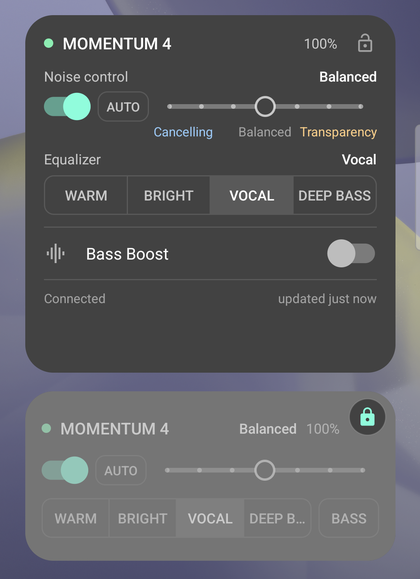
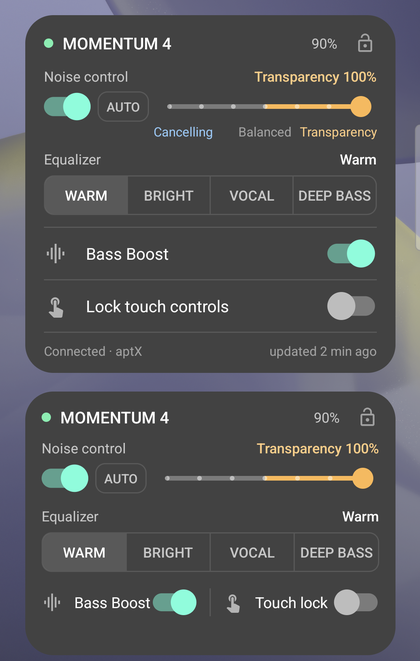
Widget: 3-row layout; README widget screenshots with and without lock
- New "tall" layout for 3-row cells (~205–295 dp): captions with the full
  readout, noise row, Equalizer caption, favorites, and Bass Boost / Touch
  lock side by side. Previously such widgets showed the 2-row layout with a
  third of the space empty. The 4-row layout now starts at 295 dp.
- README: widget screenshots of the 4-row and 3-row layouts, unlocked and
  locked; plan.md lists the four layouts and measured row heights.

diff --git a/app/src/main/java/cz/metlicka/m4control/widget/WidgetUpdater.kt b/app/src/main/java/cz/metlicka/m4control/widget/WidgetUpdater.kt
@@ -60,7 +60,8 @@ object WidgetUpdater {
 
     /** Debug builds: inflate every layout once so RemoteViews errors show up in the frame log. */
     fun selfTest(context: Context) {
-        for ((name, layout) in listOf("compact" to R.layout.widget_compact, "medium" to R.layout.widget_medium, "large" to R.layout.widget_large)) {
+        for ((name, layout) in listOf("compact" to R.layout.widget_compact, "medium" to R.layout.widget_medium,
+                "tall" to R.layout.widget_tall, "large" to R.layout.widget_large)) {
             try {
                 RemoteViews(context.packageName, layout).apply(context, android.widget.FrameLayout(context))
                 views(context, layout, Size.LARGE, AppWidgetManager.INVALID_APPWIDGET_ID).apply(context, android.widget.FrameLayout(context))
@@ -77,18 +78,23 @@ object WidgetUpdater {
             return RemoteViews(mapOf(
                 SizeF(250f, 40f) to views(context, R.layout.widget_compact, Size.COMPACT, id),
                 SizeF(250f, 120f) to views(context, R.layout.widget_medium, Size.MEDIUM, id),
-                SizeF(250f, 235f) to views(context, R.layout.widget_large, Size.LARGE, id),
+                SizeF(250f, 205f) to views(context, R.layout.widget_tall, Size.TALL, id),
+                SizeF(250f, 295f) to views(context, R.layout.widget_large, Size.LARGE, id),
             ))
         }
         val h = mgr.getAppWidgetOptions(id).getInt(AppWidgetManager.OPTION_APPWIDGET_MIN_HEIGHT, 120)
         return when {
             h < 120 -> views(context, R.layout.widget_compact, Size.COMPACT, id)
-            h < 235 -> views(context, R.layout.widget_medium, Size.MEDIUM, id)
+            h < 205 -> views(context, R.layout.widget_medium, Size.MEDIUM, id)
+            h < 295 -> views(context, R.layout.widget_tall, Size.TALL, id)
             else -> views(context, R.layout.widget_large, Size.LARGE, id)
         }
     }
 
-    private enum class Size { COMPACT, MEDIUM, LARGE }
+    /** Rows of a typical launcher: COMPACT 1, MEDIUM 2, TALL 3, LARGE 4+. */
+    private enum class Size { COMPACT, MEDIUM, TALL, LARGE;
+        val roomy get() = this == TALL || this == LARGE
+    }
 
     private fun views(ctx: Context, @LayoutRes layout: Int, size: Size, widgetId: Int): RemoteViews {
         DeviceController.init(ctx)
@@ -120,8 +126,8 @@ object WidgetUpdater {
         }
 
         val statusText = when (st.link) {
-            LinkState.DISCONNECTED -> if (size != Size.LARGE) "Not connected · last known" else "Not connected · last known settings"
-            LinkState.UNAVAILABLE -> if (size != Size.LARGE) "Control unavailable" else "Control connection unavailable"
+            LinkState.DISCONNECTED -> if (!size.roomy) "Not connected · last known" else "Not connected · last known settings"
+            LinkState.UNAVAILABLE -> if (!size.roomy) "Control unavailable" else "Control connection unavailable"
             else -> null
         }
         rv.setViewVisibility(R.id.status, if (statusText != null) View.VISIBLE else View.GONE)
@@ -131,11 +137,13 @@ object WidgetUpdater {
 
         bindNoise(ctx, rv, st, size)
         if (size != Size.COMPACT) bindEq(ctx, rv, st)
-        if (size == Size.LARGE) {
+        if (size.roomy) {
             val touch = st.shownTouchLock
             rv.setImageViewResource(R.id.sw_touch, if (touch == true) R.drawable.w_sw_on else R.drawable.w_sw_off)
             rv.setFloat(R.id.sw_touch, "setAlpha", if (touch == null || st.touchLockPending) 0.55f else 1f)
             rv.setOnClickPendingIntent(R.id.touch_row, service(ctx, CommandService.ACTION_TOUCH_LOCK, 210))
+        }
+        if (size == Size.LARGE) {
             rv.setTextViewText(R.id.foot_left, when (st.link) {
                 LinkState.CONNECTED -> "Connected" + (s.codec?.let { Codec.CODECS[it] }?.let { " · $it" } ?: "")
                 LinkState.DISCONNECTED -> "Disconnected"
@@ -150,7 +158,7 @@ object WidgetUpdater {
         val mode = st.shownNoiseMode
         val level = st.shownLevel
         val r = NoiseControl.readout(mode, level)
-        rv.setTextViewText(R.id.readout, if (size == Size.LARGE) r.text else r.short)
+        rv.setTextViewText(R.id.readout, if (size.roomy) r.text else r.short)
         color(ctx, rv, R.id.readout, when (r.tone) {
             NoiseControl.Tone.ANC -> R.color.w_anc_text
             NoiseControl.Tone.TRANSPARENCY -> R.color.w_trans_text

diff --git a/tools/gen_widget.py b/tools/gen_widget.py
@@ -129,9 +129,54 @@ def with_lock(xml, pad_top, pad_end):
 '''
 
 
+def toggle_half(row_id, icon, label, switch_id):
+    """Half-width row: icon, label, switch. Two of these share a line in the tall layout."""
+    return f'''
+            <LinearLayout android:id="@+id/{row_id}" android:layout_width="0dp" android:layout_height="match_parent" android:layout_weight="1" android:gravity="center_vertical" android:orientation="horizontal">
+                <ImageView android:layout_width="18dp" android:layout_height="18dp" android:src="@drawable/{icon}" android:tint="@color/w_fg2" />
+                <TextView android:layout_width="0dp" android:layout_height="wrap_content" android:layout_weight="1" android:layout_marginStart="10dp" android:ellipsize="end" android:maxLines="1" android:text="{label}" android:textColor="@color/w_fg" android:textSize="13sp" />
+                <ImageView android:id="@+id/{switch_id}" android:layout_width="40dp" android:layout_height="22dp" android:scaleType="fitCenter" android:src="@drawable/w_sw_off" />
+            </LinearLayout>'''
+
+
+def layout_tall():
+    """3-row cells (~210–290 dp): captions, slider, favorites and both switches on one line."""
+    pad = 'android:paddingStart="14dp" android:paddingEnd="14dp" android:paddingTop="10dp" android:paddingBottom="10dp"'
+    return f'''<?xml version="1.0" encoding="utf-8"?>
+<!-- Generated by tools/gen_widget.py (tall). The sizes share view ids. -->
+<LinearLayout {A}
+    android:id="@+id/root" android:layout_width="match_parent" android:layout_height="match_parent"
+    android:background="@drawable/w_bg" android:orientation="vertical" {pad}>
+
+    <LinearLayout android:id="@+id/header" android:layout_width="match_parent" android:layout_height="24dp" android:gravity="center_vertical" android:orientation="horizontal">
+        <ImageView android:id="@+id/dot" android:layout_width="8dp" android:layout_height="8dp" android:src="@drawable/w_dot_ok" />
+        <TextView android:id="@+id/name" android:layout_width="0dp" android:layout_height="wrap_content" android:layout_weight="1" android:layout_marginStart="8dp" android:ellipsize="end" android:maxLines="1" android:text="MOMENTUM 4" android:textColor="@color/w_fg" android:textSize="14sp" android:fontFamily="sans-serif-medium" />
+        <TextView android:id="@+id/battery" android:layout_width="wrap_content" android:layout_height="wrap_content" android:layout_marginStart="8dp" android:maxLines="1" android:textColor="@color/w_fg2" android:textSize="12sp" />
+    </LinearLayout>
+    <TextView android:id="@+id/status" android:layout_width="match_parent" android:layout_height="wrap_content" android:layout_marginTop="2dp" android:ellipsize="end" android:maxLines="1" android:textColor="@color/w_fg2" android:textSize="12sp" android:visibility="gone" />
+
+    <LinearLayout android:id="@+id/controls" android:layout_width="match_parent" android:layout_height="wrap_content" android:orientation="vertical">
+        <LinearLayout android:layout_width="match_parent" android:layout_height="wrap_content" android:layout_marginTop="6dp" android:orientation="horizontal">
+            <TextView android:layout_width="0dp" android:layout_height="wrap_content" android:layout_weight="1" android:text="Noise control" android:textColor="@color/w_fg2" android:textSize="12sp" />
+            <TextView android:id="@+id/readout" android:layout_width="wrap_content" android:layout_height="wrap_content" android:maxLines="1" android:textColor="@color/w_anc_text" android:textSize="12sp" android:fontFamily="sans-serif-medium" />
+        </LinearLayout>{noise_row(False)}
+        <LinearLayout android:layout_width="match_parent" android:layout_height="wrap_content" android:layout_marginTop="6dp" android:orientation="horizontal">
+            <TextView android:layout_width="0dp" android:layout_height="wrap_content" android:layout_weight="1" android:text="Equalizer" android:textColor="@color/w_fg2" android:textSize="12sp" />
+            <TextView android:id="@+id/eq_label" android:layout_width="wrap_content" android:layout_height="wrap_content" android:maxLines="1" android:textColor="@color/w_fg" android:textSize="12sp" android:fontFamily="sans-serif-medium" />
+        </LinearLayout>{favorites(False)}
+        <LinearLayout android:layout_width="match_parent" android:layout_height="40dp" android:layout_marginTop="6dp" android:gravity="center_vertical" android:orientation="horizontal">{toggle_half('bass_row', 'ic_graphic_eq', 'Bass Boost', 'sw_bass')}
+            <ImageView android:layout_width="1dp" android:layout_height="24dp" android:layout_marginStart="10dp" android:layout_marginEnd="10dp" android:scaleType="fitXY" android:src="@color/w_div" />{toggle_half('touch_row', 'ic_touch', 'Touch lock', 'sw_touch')}
+        </LinearLayout>
+    </LinearLayout>
+</LinearLayout>
+'''
+
+
 def layout(kind):
     if kind == 'large':
         return with_lock(layout_inner(kind), 12, 16)
+    if kind == 'tall':
+        return with_lock(layout_tall(), 10, 14)
     return with_lock(layout_inner(kind), 10, 14)
 
 
@@ -252,7 +297,7 @@ def switch(on):
 
 
 def main():
-    for k in ('compact', 'medium', 'large'):
+    for k in ('compact', 'medium', 'tall', 'large'):
         write(os.path.join(RES, 'layout', f'widget_{k}.xml'), layout(k))
     write(os.path.join(RES, 'values', 'widget_colors.xml'), color_file(LIGHT))
     write(os.path.join(RES, 'values-night', 'widget_colors.xml'), color_file(DARK))

diff --git a/README.md b/README.md
@@ -7,12 +7,18 @@ EQ presets and Bass Boost, one tap away, without opening Smart Control Plus.
   <tr>
     <td align="center"><img src="docs/screenshots/main.png" width="280" alt="Main screen"></td>
     <td align="center"><img src="docs/screenshots/eq.png" width="280" alt="Equalizer screen"></td>
-    <td align="center"><img src="docs/screenshots/widgets.png" width="280" alt="Home-screen widgets, one unlocked and one locked"></td>
   </tr>
   <tr>
     <td align="center">Main screen</td>
     <td align="center">Equalizer</td>
-    <td align="center">Widgets — unlocked (4×3) and locked (4×2)</td>
+  </tr>
+  <tr>
+    <td align="center"><img src="docs/screenshots/widgets.png" width="280" alt="Home-screen widgets in the 4-row and 3-row layouts"></td>
+    <td align="center"><img src="docs/screenshots/widgets-locked.png" width="280" alt="The same widgets locked: grey veil, only the lock stays active"></td>
+  </tr>
+  <tr>
+    <td align="center">Widgets — 4-row and 3-row layouts</td>
+    <td align="center">Widgets locked — only the lock stays active</td>
   </tr>
 </table>
 
@@ -24,9 +30,9 @@ EQ presets and Bass Boost, one tap away, without opening Smart Control Plus.
   a preset library — 7 built-in presets plus your own, which you can save, rename, delete (with undo)
   and reorder. The header always names the EQ you're editing, e.g. "Warm · edited".
 - **Bass Boost**, battery level and the active codec.
-- **Home-screen widget**, one resizable widget in three sizes (4×1, 4×2, 4×3): noise switch, Adaptive,
-  a 7-stop slider, your 4 favorite presets and Bass Boost; the large size adds the headphones' touch
-  lock. A tap takes about half a second.
+- **Home-screen widget**, one resizable widget with layouts for 1 to 4+ rows: noise switch, Adaptive,
+  a 7-stop slider, your 4 favorite presets and Bass Boost; from 3 rows it adds captions and the
+  headphones' touch lock. A tap takes about half a second.
 - **Optional widget lock:** a lock in the widget's corner blocks every tap — controls and opening the
   app — until you unlock it. Each widget locks separately.
 - Material Design 1 look with rounded corners, light and dark themes following the system.

diff --git a/plan.md b/plan.md
@@ -408,7 +408,12 @@ and dark, with switches to preview link states and the device's audio mode.
   - **Medium 4×2:** header; "Noise control" + readout; noise row; end labels;
     EQ caption + 4 favorites; Bass Boost.
   - **Large 4×3:** medium + footer "Connected · codec" and "updated … ago".
-- **Lock touch controls** (large size only): a row below Bass Boost toggling the headphones'
+- **Four layouts by height** (dp, chosen by the launcher on API 31+): compact ≥ 40 (1 row: header
+  with short readout + noise row), medium ≥ 120 (2 rows: + favorites with a BASS pill), tall ≥ 205
+  (3 rows: captions with full readout, noise row, Equalizer caption, favorites, Bass Boost and Touch
+  lock side by side), large ≥ 295 (4+ rows: + end labels, separate Bass Boost / Lock touch controls
+  rows, footer). Measured on One UI: 2 rows ≈ 150 dp, 3 rows ≈ 226 dp, 4 rows ≈ 306 dp.
+- **Lock touch controls** (tall and large sizes): a row below Bass Boost toggling the headphones'
   touch lock (`1606`/`1607`). It has no notification on the registered features, so widget
   sessions read it (one extra request); dimmed while unknown or pending.
 - **Optional lock** (Settings → "Lock button on widget", off by default): a lock icon at the header's
